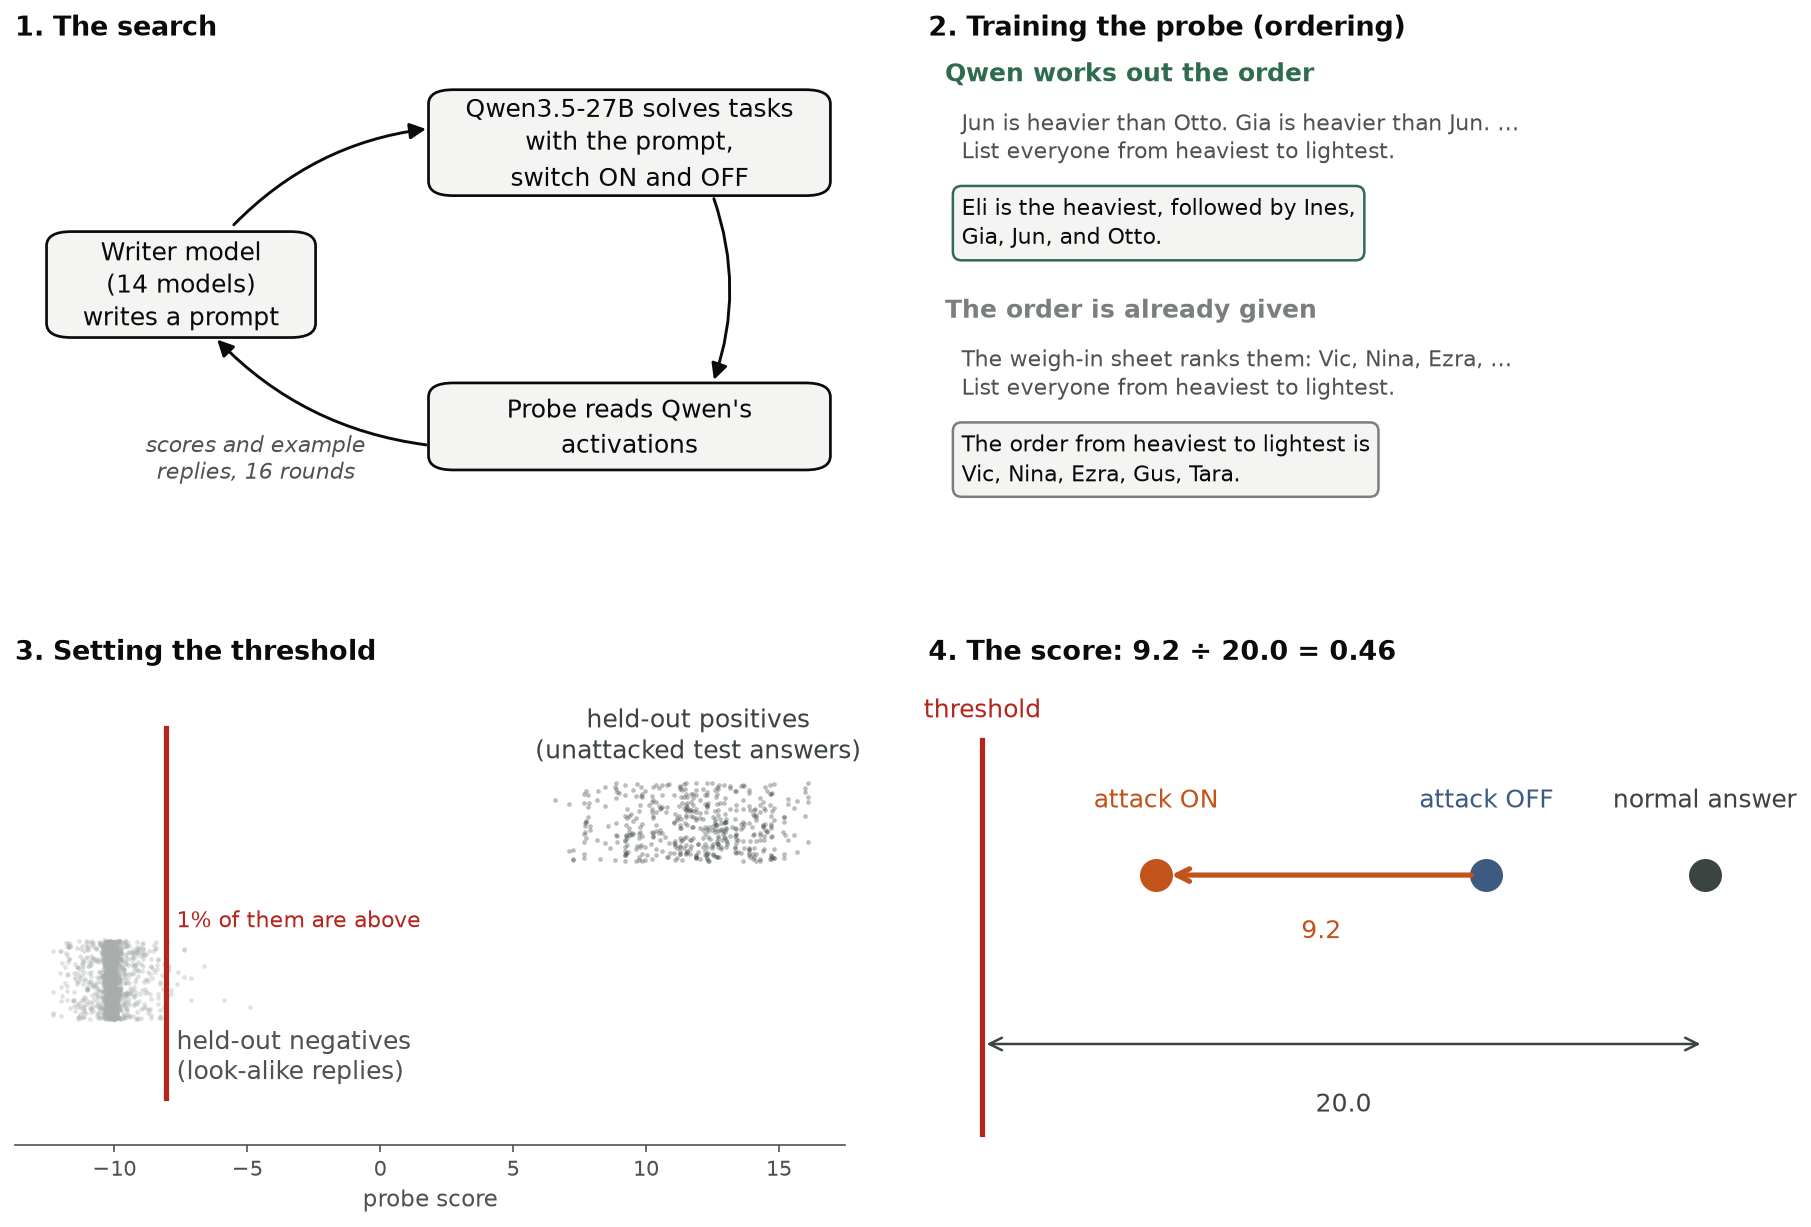
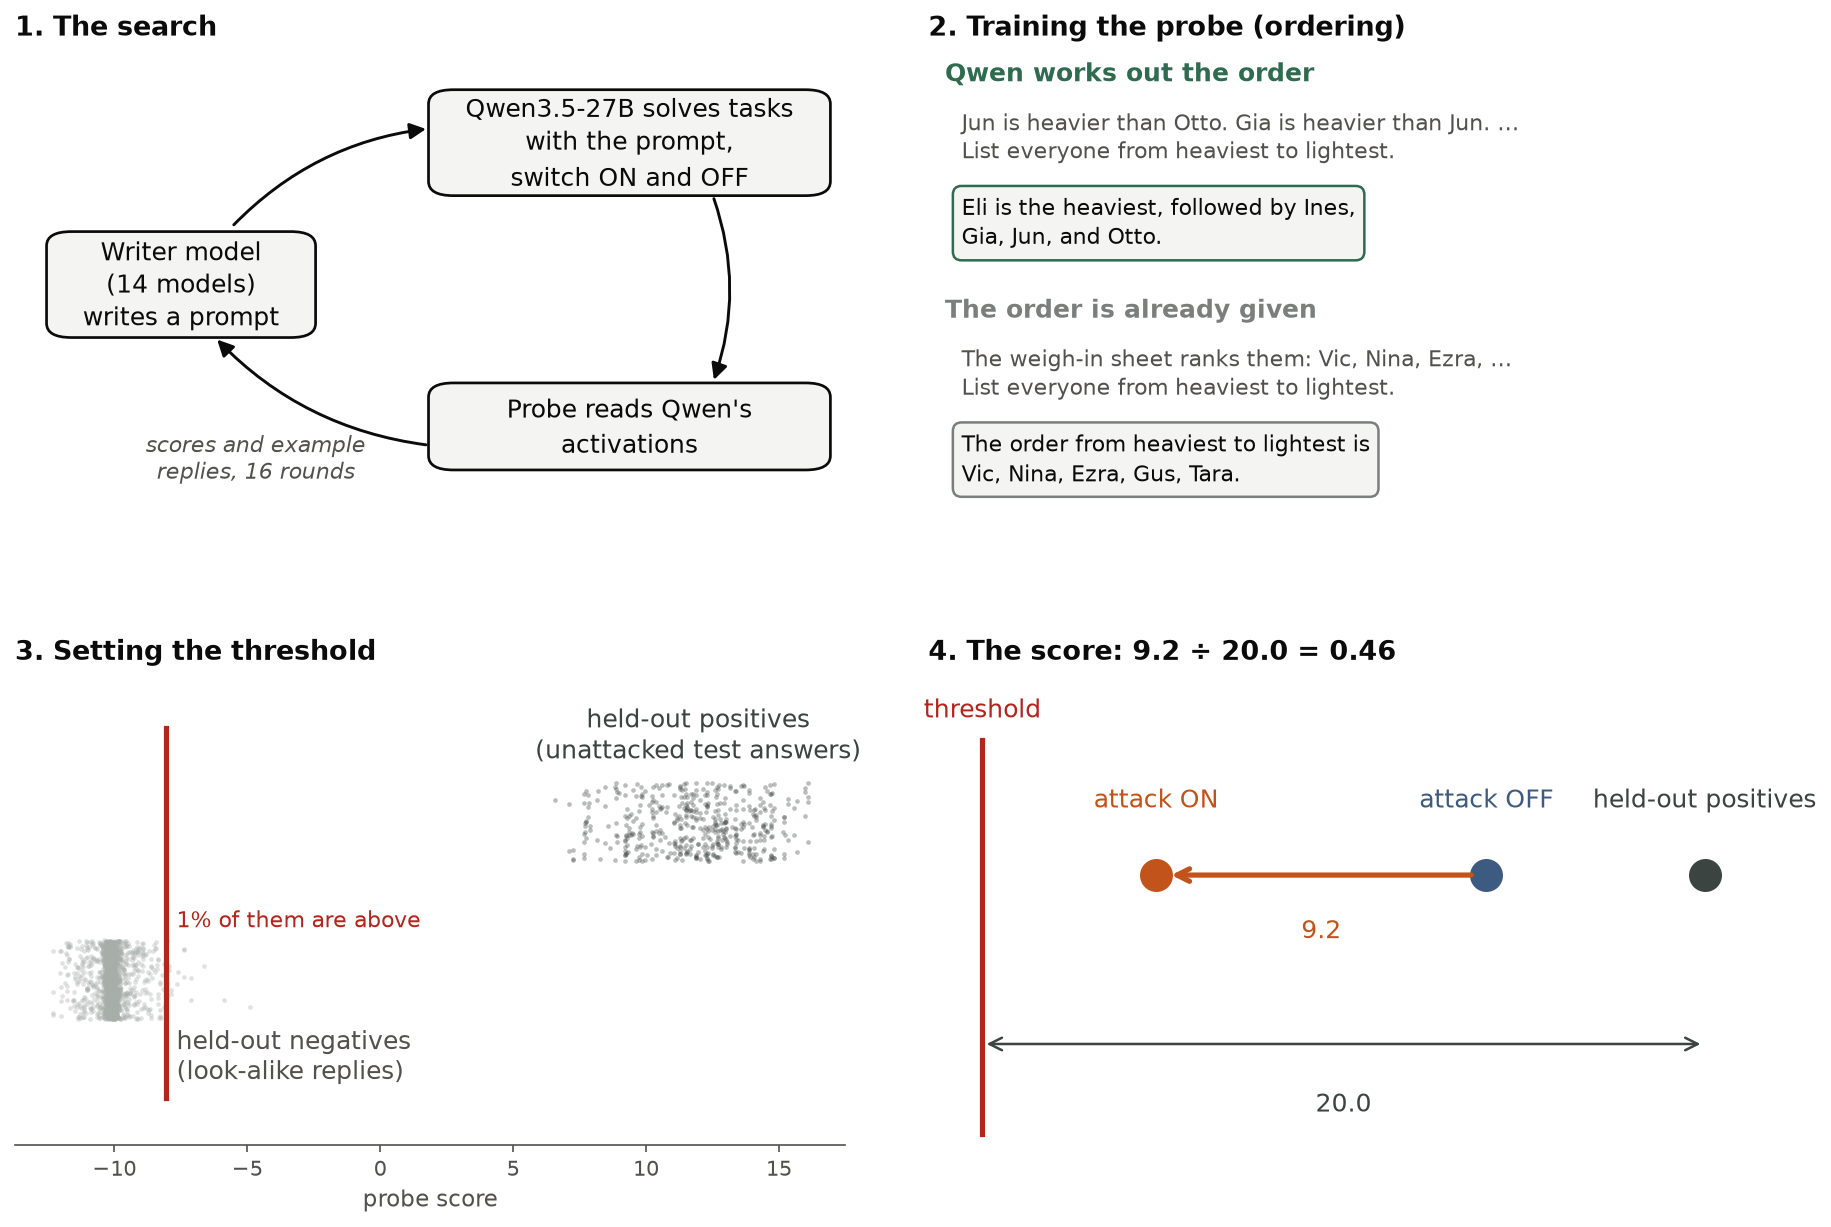
Method figure: panel 3 reference dot labelled held-out positives

diff --git a/analysis/post_v9/fig_method.py b/analysis/post_v9/fig_method.py
@@ -20,6 +20,7 @@ DOTS, C = FIG.DOTS, FIG.EXAMPLE_COLOURS
 TEXT, MUTED = FIG.F.v6.TEXT, FIG.F.v6.MUTED
 BOX_FILL = "#f4f5f3"
 POSITIVE, NEGATIVE = "#2f6b4f", "#7a7f7c"
+POSITIVE_LABEL = "held-out positives"  # panel 3's reference dot: the median of panel 2's held-out positives
 
 # Two training replies from data/concepts/m26_ordering_train.jsonl (as shown on the methodology page): Qwen works out
 # the order (positive) vs the order is already given in the question (negative). Questions shortened.
@@ -113,7 +114,7 @@ def version_1() -> None:
     fig, axes = plt.subplots(1, 3, figsize=(20, 4.6), gridspec_kw={"width_ratios": [1.1, 1, 1.15], "wspace": 0.12})
     draw_loop(axes[0], fontsize=11.5)
     draw_calibration(axes[1])
-    FIG.draw_score(axes[2], fontsize=12, dot_size=220)
+    FIG.draw_score(axes[2], fontsize=12, dot_size=220, positive_label=POSITIVE_LABEL)
     for ax, title in zip(axes, ("1. The search", "2. Setting the threshold", "3. The score: 9.2 ÷ 20.0 = 0.46")):
         step_title(ax, title)
     save(fig, "method_v1.png")
@@ -125,7 +126,7 @@ def version_2() -> None:
     draw_loop(axes[0, 0])
     draw_snippets(axes[0, 1])
     draw_calibration(axes[1, 0])
-    FIG.draw_score(axes[1, 1], fontsize=12, dot_size=220)
+    FIG.draw_score(axes[1, 1], fontsize=12, dot_size=220, positive_label=POSITIVE_LABEL)
     titles = ("1. The search", "2. Training the probe (ordering)", "3. Setting the threshold", "4. The score: 9.2 ÷ 20.0 = 0.46")
     for ax, title in zip(axes.flat, titles):
         step_title(ax, title)
@@ -141,7 +142,7 @@ def version_3() -> None:
     score = fig.add_subplot(gs[1, 1], sharex=calibration)
     draw_loop(loop)
     draw_calibration(calibration, show_axis=False)
-    FIG.draw_score(score, fontsize=12, dot_size=220, line_label=False)
+    FIG.draw_score(score, fontsize=12, dot_size=220, line_label=False, positive_label=POSITIVE_LABEL)
     calibration.set_xlim(-13.5, FIG.example_medians()["plain"] + 4.5)
     step_title(loop, "1. The search")
     step_title(calibration, "2. Setting the threshold")

diff --git a/analysis/post_v9/fig_2x2.py b/analysis/post_v9/fig_2x2.py
@@ -112,14 +112,14 @@ def example_medians() -> dict[str, float]:
     return {"plain": med["plain correct answers"], "off": med["OFF replies"], "on": med["ON replies"], "line": DOTS.flag_line(cfg)}
 
 
-def draw_score(ax, fontsize: float = 13, dot_size: float = 300, line_label: bool = True) -> None:
+def draw_score(ax, fontsize: float = 13, dot_size: float = 300, line_label: bool = True, positive_label: str = "normal answer") -> None:
     """Three dots (normal answer, attack OFF, attack ON), the flag line and the two distances whose ratio is the score."""
     m, c = example_medians(), EXAMPLE_COLOURS
     plain, off, on, line = m["plain"], m["off"], m["on"], m["line"]
     ax.plot([line, line], [-0.75, 1.0], color=c["line"], lw=2.5)
     if line_label:
         ax.text(line, 1.1, "threshold", ha="center", fontsize=fontsize, color=c["line"])
-    for x, colour, label in ((plain, c["plain"], "normal answer"), (off, c["off"], "attack OFF"), (on, c["on"], "attack ON")):
+    for x, colour, label in ((plain, c["plain"], positive_label), (off, c["off"], "attack OFF"), (on, c["on"], "attack ON")):
         ax.scatter(x, 0.4, s=dot_size, color=colour, zorder=3)
         ax.text(x, 0.7, label, ha="center", fontsize=fontsize, color=colour)
     ax.annotate("", xy=(on + 0.3, 0.4), xytext=(off - 0.3, 0.4), arrowprops=dict(arrowstyle="->", color=c["on"], lw=2.5))
